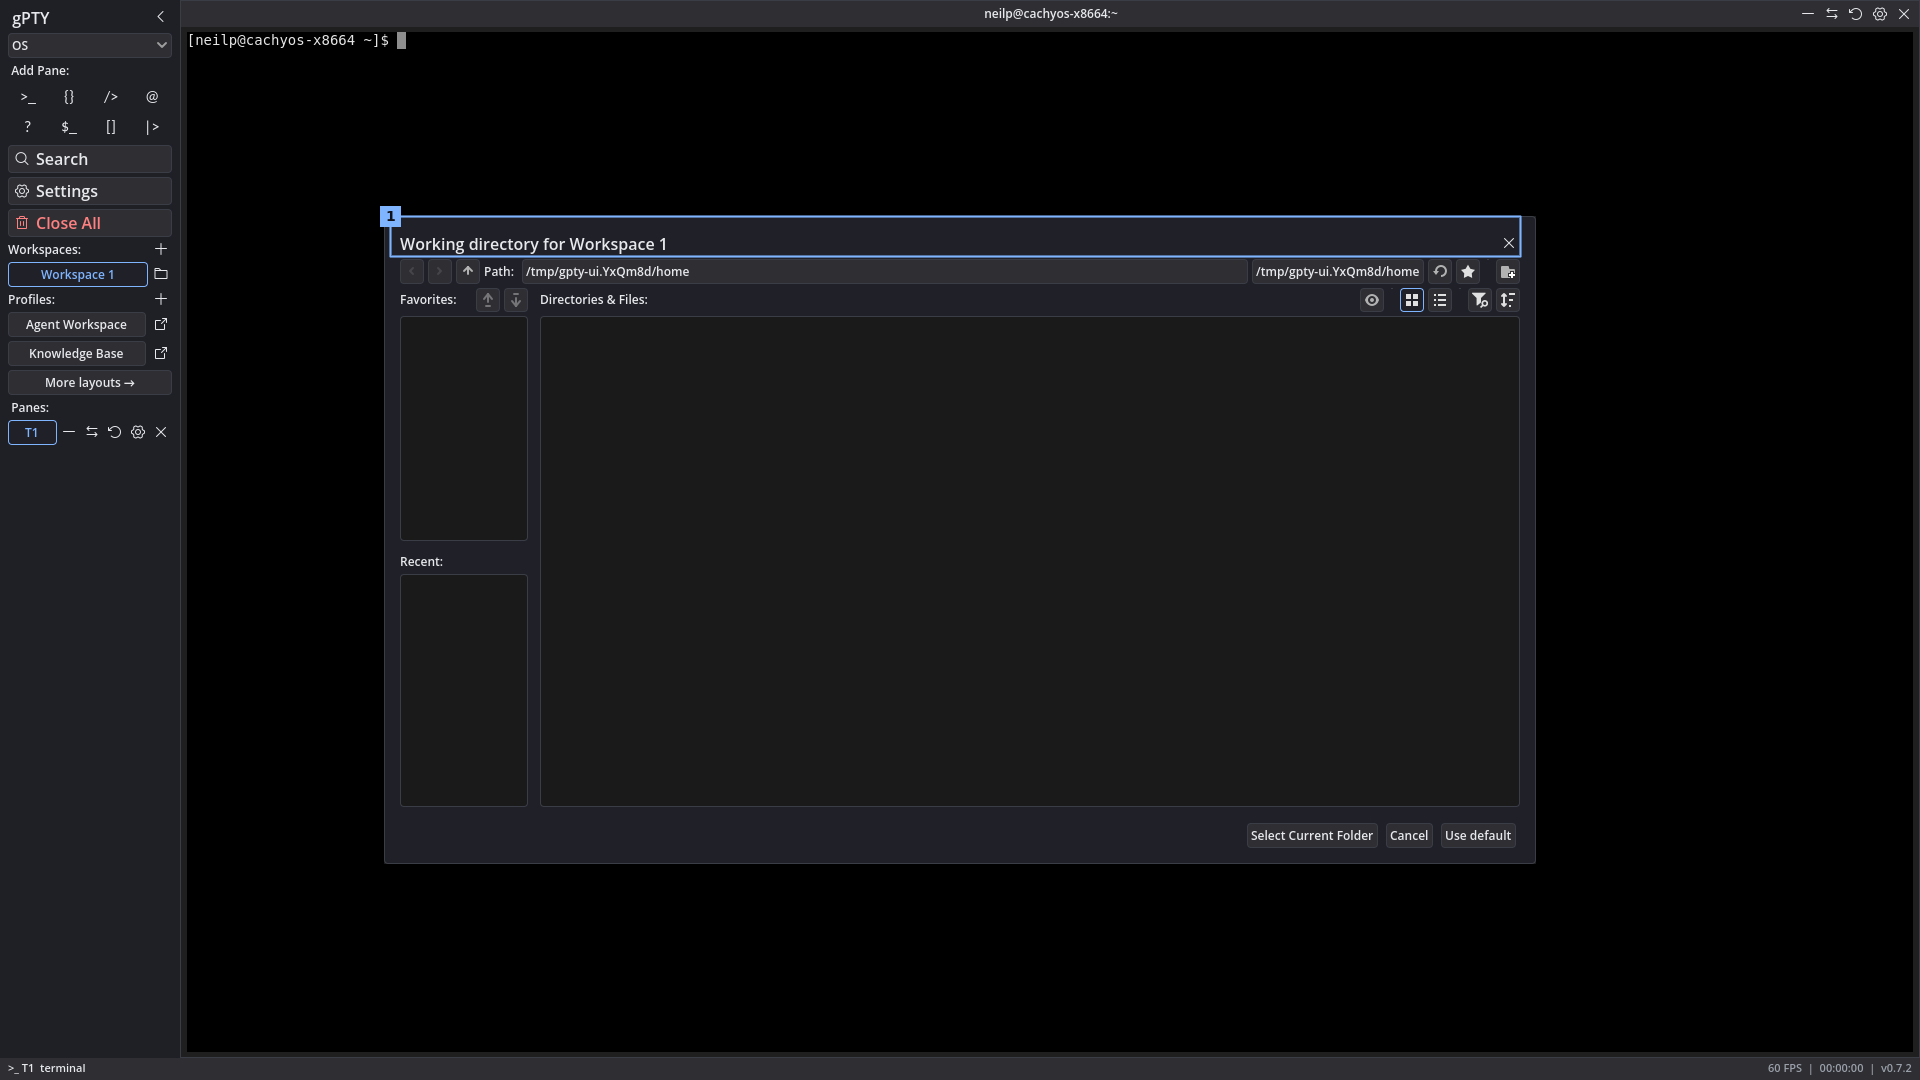
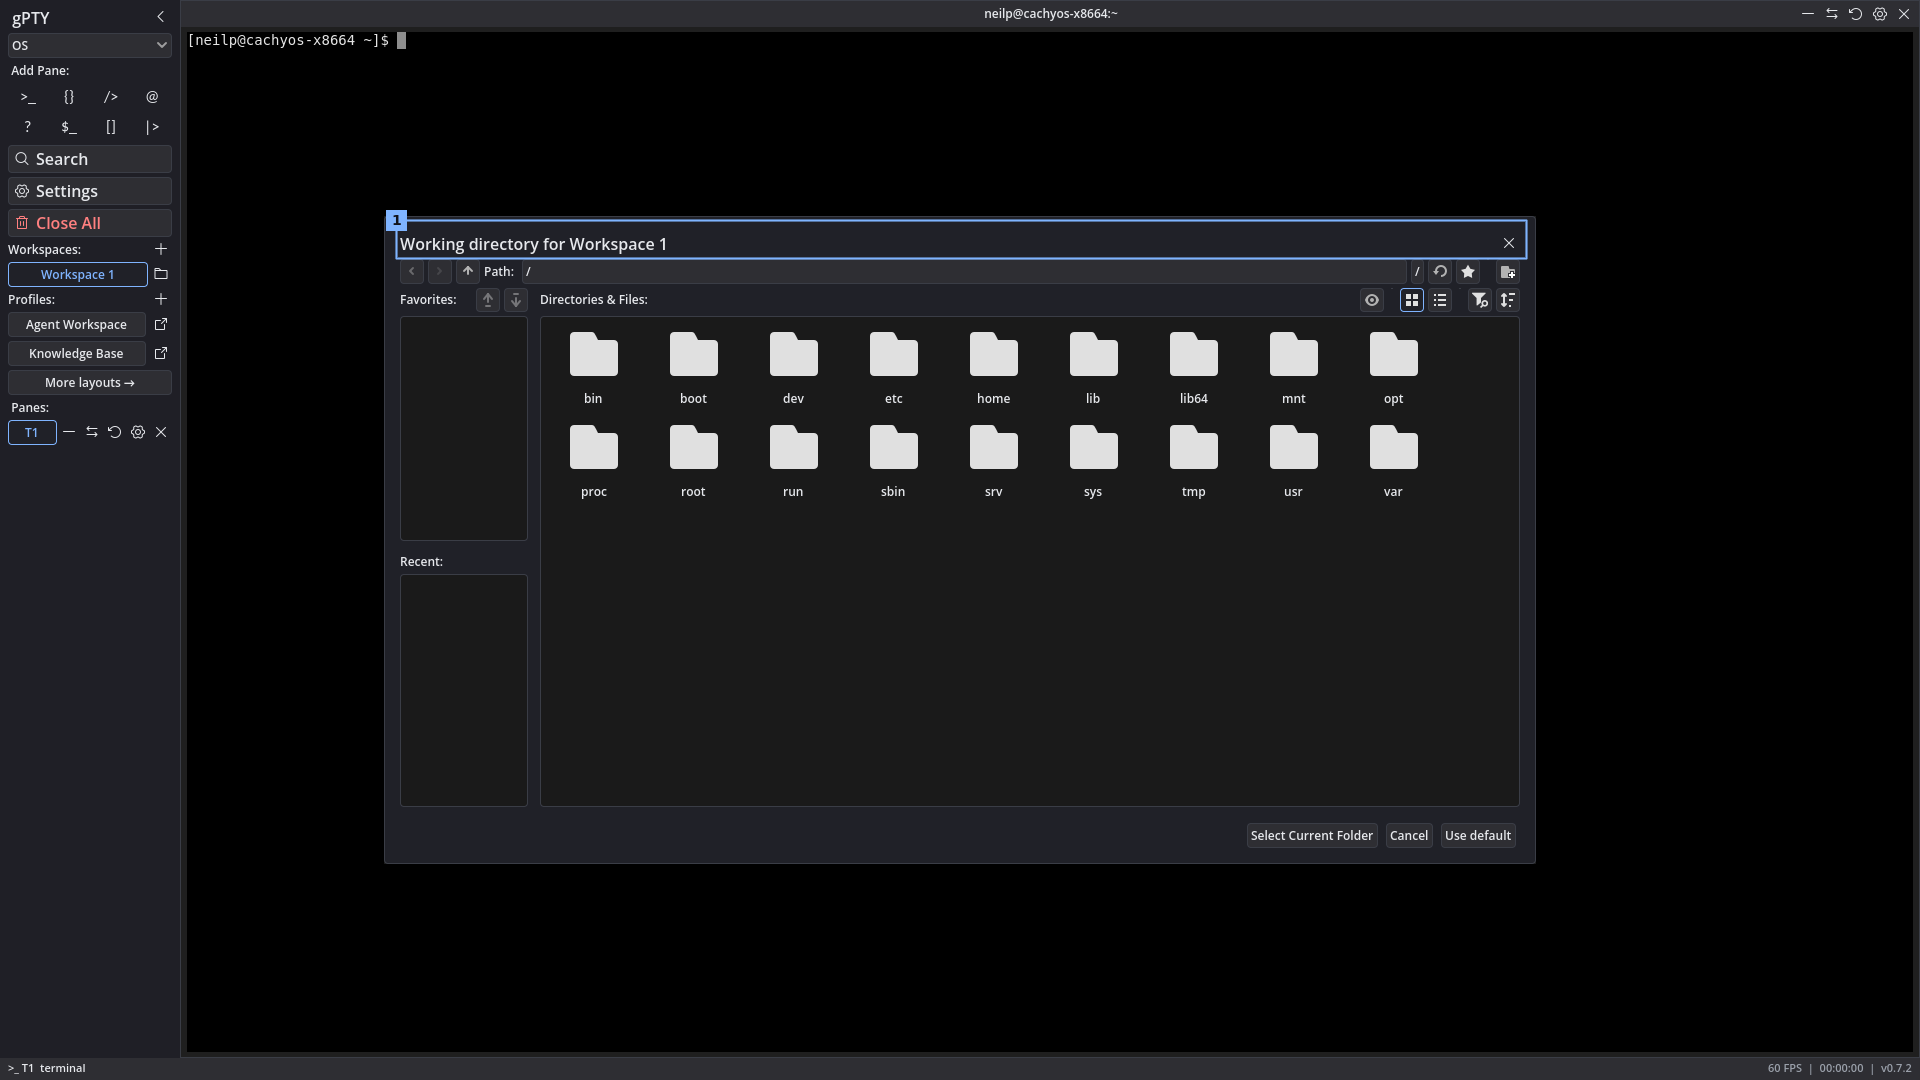
fix(ci): keep the file-dialog capture byte-identical
The picker opens in the sandbox's HOME, whose per-run path made two captures of the new `file-dialog` state differ in the path field, so `scripts/ui-capture-check` failed the state. The state now pins `/` after the dialog opens: a fixed path whose listing is the same on both runs of one machine. Checked with `scripts/ui-capture-check settings file-dialog` (both states identical twice, and only `settings` changes when perturbed).

Also records the gate's own wart as a roadmap row: `PERTURB` is fixed to `settings`, so naming any other state alone is refused.

Changed region(s): [[0.2812, 0.3056, 0.75, 0.4583], [0.1875, 0.1833, 0.8125, 0.275]]

diff --git a/docs/content/docs/roadmap/v0.8.md b/docs/content/docs/roadmap/v0.8.md
@@ -16,6 +16,7 @@ Five releases that make the interface the reason to use gPTY. v0.8.0 re-baseline
 | ✅ | GUI | **An open overlay neither takes keyboard focus nor blocks the terminal behind it** - measured 2026-11-03 on 0.7.2: with Settings open and a terminal focused, typing `x` reached the shell and Escape closed neither Settings, Pane Settings nor the command palette, because a focused pane consumes every key in `_gui_input` (`accept_event()` on its fall-through path) after writing the raw ESC to the child, so each overlay's `_unhandled_input` Escape handler never ran; the palette's field also focused nothing (`find_child("*")` returned the palette's `VBoxContainer`). The concept editor was the exception (it grabbed focus and Escape closed it). Fixed 2026-11-04: the four overlays (Settings, Pane Settings, the palette, the concept editor) extend `OverlayPanel` and take the keyboard on open - `open()` remembers the focus owner and focuses a control inside (`_initial_focus()`, else the first reachable descendant), so a typed character goes to the overlay; Escape is handled in `Workspace._input`, before GUI input, with `_keyboard_overlay()` naming the topmost visible overlay; `close()` emits `keyboard_released` only when the overlay still owned the keyboard (a click that already moved focus is never overridden), and the workspace then focuses the overlay underneath (the concept editor returns to Settings) or the active pane; a click behind an open overlay no longer activates a pane. The palette moved to `ui/command_palette.gd`, which fixes its focus target. Measured 2026-11-04 with `scripts/ui-capture --audit-focus`: settings, pane-settings and palette now report the focus owner inside the overlay and `escape ... closed=true` (before: `focus-owner=.../Body` and `closed=false` for pane settings and the palette). Tests: `godot/tests/integration/test_overlay_focus.gd` (a real shell per run: typing never reaches the PTY, Escape leaves the grid unchanged and the next typed command still runs, focus returns to the terminal, the editor returns to Settings, a palette spawn keeps the new pane, a click behind an overlay activates nothing) and `godot/tests/unit/test_overlay_panel.gd`; `scripts/ui-capture-check` is still pixel-identical on the four states. Rule: `docs/content/docs/agents/gdscript.md` ("Overlay keyboard ownership"). |
 | ✅ | GUI | **The keyboard cannot drive pane chrome or the Wiki pane** - measured 2026-11-03 on 0.7.2 with `--audit-focus`: every pane title bar's five buttons were `FOCUS_NONE` (20 mouse-only buttons in the four-pane state) and the Wiki pane's Back, New, Graph, Edit/Split/Preview, Rename, Delete, Save and every link row likewise (52 on the index note), and opening a note with Enter hid the list and the search while nothing handled Escape - the editor consumes Tab for indentation, so a note was a hard keyboard trap. Fixed 2026-11-04: the five title-bar buttons are `FOCUS_ALL` with an explicit `focus_next`/`focus_previous` ring (`TerminalManager._wire_chrome_keyboard`), the body's own traversal continues into its first button, `Ctrl+Shift+E` (`Workspace._focus_active_pane_chrome`) is the way in from a terminal (which consumes Tab for its child; it does nothing while an overlay owns the keyboard), Escape hands the keyboard back to the pane (a terminal takes it itself; a read-only pane's first reachable control takes it, `KeyboardFocus.first_reachable`) (`Workspace._escape_pane_chrome`), and a chrome action that leaves the pane on screen returns focus to it. The Wiki pane's controls and link rows are ordinary tab stops, opening a note focuses the buffer (or Back for a note past the 1 MiB cap), leaving focuses the list, and Escape is Back behind the existing Save/Discard/Cancel guard. Measured 2026-11-04: `--audit-focus sidebar` reports `focus-none-buttons=0` (was 20) and a tab-order that enters `TitleBarButtons/{Minimize,SwapPosition,ChangeType,PaneSettings,ClosePane}` and wraps; `--audit-focus wiki-vault` reports `focus-none-buttons=0` (was 52). Godot finding: `_gui_input` is delivered to the focused control only and does not bubble to ancestors on 4.7.2 (measured), so both Escape paths read the input stage and scope themselves with the focus owner. Tests: `test_title_bar_keyboard.gd` (ring, entry, Escape back, overlay guard, restore returns the keyboard), `test_wiki_pane.gd` (Escape from a clean note writes nothing and focuses the list, Escape on a dirty note asks and Cancel keeps it, no visible wiki action is mouse-only), `test_keyboard.gd` (Escape still reaches the child as ESC). Docs: the keyboard-shortcuts wiki page, the GDScript page (pane chrome is a keyboard toolbar) and the pitfalls page (the bubbling trap). |
 | ✅ | WIKI | **The note toolbar is unreachable while the buffer has focus** - found 2026-11-04 while closing **The keyboard cannot drive pane chrome or the Wiki pane**, and measured on that fix build: the note view's controls are now tab stops, but a keyboard user who is editing cannot reach them - a focused `CodeEdit` consumes Tab for indentation, Escape leaves the note (Back is the fix for the trap, not a focus move), and the toolbar sits before the editor in tree order, so the only path to Rename/Delete/Edit-Split-Preview while typing is to leave the note, reopen it, or click. Fixed 2026-11-04: the toolbar (Edit/Split/Preview, Rename, Delete, Save) is one explicit traversal ring built from `KeyboardFocus.reachable_children`/`KeyboardFocus.ring` - the pair pane chrome now uses too - so Tab wraps inside the bar; `Ctrl+Shift+K` enters it (`Workspace._focus_note_toolbar`) and Escape returns to the buffer (`WikiPane._return_from_note_toolbar`) before the buffer's own Escape leaves the note, one level out per press. The chord resolves its pane from the focus owner first: `last_body` alone was measured wrong (a wiki pane opened from its own list kept the startup terminal as the active pane, so a `last_body`-only rule never fired from the buffer the chord exists for). `PaneBody.keyboard_entry()` is the new contract behind the row's third half: entering the pane from its chrome (`TerminalManager._return_focus_to_body`) now lands in the note buffer instead of Back. Inert with no buffer on screen (no note open, `preview` mode), where the toolbar is already one Tab from Back. Test: `test_wiki_note_keyboard.gd` - the chord from the focused buffer lands on the first toolbar button with `last_body` pointing elsewhere, Escape returns to the buffer without leaving the note and only the second Escape leaves it, the ring covers modes/Rename/Delete/Save in both directions, the chord is inert in the list view and in preview mode, and chrome Escape aims at the buffer. `--audit-focus wiki-vault` on the built app: 0 mouse-only buttons of 178 controls (its tab-order walk still stops inside the title-bar ring - **The focus audit stops inside the first keyboard ring** below). |
+| ⬜ | BUILD | **`ui-capture-check` refuses a state subset that leaves out `settings`** - found 2026-11-06 while adding the `file-dialog` capture state: the usage line is `scripts/ui-capture-check [--keep <dir>] [state...]`, but `PERTURB` is fixed to `settings`, so naming any other state alone fails with `perturb state 'settings' is not in the state list` instead of checking the state the caller named - the natural invocation for one new state cannot run. Fix: default `PERTURB` to the first state in the list (or add a `--perturb` flag), so the locality half stays meaningful for any subset. |
 | ✅ | WIKI | **The vault link graph is mouse-only** - measured 2026-11-03 in `wiki-graph`: the graph is the only pane surface and it had zero focusable controls - `Arrows`, `Relayout` and `Fit` were `FOCUS_NONE`, and the canvas was a `FOCUS_NONE` `Control` whose drag, wheel zoom, click-to-open and right-click weight menu all lacked a key path, so the Tab order started in the sidebar and the map could not be operated at all without a pointer. Fixed 2026-11-04: the canvas and its three actions are one explicit ring with the canvas first (`KeyboardFocus.ring`), so all four are tab stops and the canvas draws its own accent focus frame (a custom-drawn `Control` has no stylebox to do it); arrows pan (`PAN_STEP` 48 px, Shift x4), `+`/`-` zoom about the crosshair, and Enter acts on what the crosshair covers - a note opens, a ghost resolves, an edge opens its declared-weight menu - through the same `VaultGraphModel.hit_test`/`hit_test_edge` the pointer uses (`VaultGraphView.cursor_hit`, one answer for the draw and the gesture, so the highlight cannot disagree with the action). The crosshair is the canvas centre, drawn only while the canvas holds the keyboard, and the node under it gets its own ring and label. Opening the graph hands the keyboard to the canvas (the Graph button, and `WikiPane.keyboard_entry` for the chrome route), and Escape still leaves for the list. Measured with `--audit-focus wiki-graph`: 3 mouse-only buttons and a mouse-only canvas (35 focusable) before, 0 and 39 after, focus-owner the canvas, tab-order canvas -> Arrows -> Relayout -> Fit. Tests: `test_vault_graph_view.gd` (the ring in both directions, arrow/Shift pan, zoom about the crosshair, Enter on a node, a ghost and an edge), `test_wiki_pane.gd` (the Graph button hands focus over; Escape returns to the list). |
 | ✅ | WIKI | **The vault graph's labels overlap at the bundled vault's density** - measured 2026-11-03 on the 52-note / 267-link bundled vault: labels were drawn for every node at the fitted zoom and two titles printed on top of each other at the top of the map (the `wiki-graph` capture), so note identity was unreadable where the map is most useful; the first fit used node positions only (`VaultGraphModel.bounds`), not label extents. Fixed 2026-11-04: labels are placed, not drawn per node - `VaultGraphView.label_placements` orders the candidates by what the user is aiming at (crosshair, pointer, open note), then degree, then id, and `VaultGraphModel.cull_labels` drops every box that would print over one already accepted (or that the view clips anyway), so no two titles stack. Always-on labels still stop at `LABEL_ZOOM`/`MAX_ALWAYS_LABELS`, but past either threshold the aimed-at, pointed-at and open nodes keep their names instead of the map going nameless. `fit_to_view` reserves the widest label (`MAX_LABEL_BLOCK`) out of the usable box, so a fitted map's right-hand labels land inside the padding instead of running off the canvas. Node circles are deliberately not label obstacles: measured on the bundled vault, blocking against them deleted nearly every label in the crowded centre. Tests: `test_vault_graph_model.gd` (disjoint boxes kept, an overlapping one dropped by priority, out-of-view skipped, no candidates), `test_vault_graph_view.gd` (an 8-node cluster keeps fewer labels than nodes and the open note's, no two placed boxes intersect, the fit puts every label inside the view, and a 130-node graph names only the open note). Re-captured `wiki-graph` on the built app: 52 notes, labels legible, nothing stacked. Screenshot (under Screenshots below): *Vault link graph* - the 0.7.2 capture of the stacking this row closed. |
 | ✅ | GUI | **The agent-state badge distinguishes failed from needs-attention by colour alone** - `failed` and `needs-attention` both rendered `Icons.WARNING_CIRCLE` and differed only by `BADGE_FAILED_COLOR` (red) and `BADGE_ATTENTION_COLOR` (amber), and the 12 px glyph `Label` carried no text, tooltip or accessible name, so a protan/deutan user could not reliably tell a failed turn from one that wants attention and a screen reader got nothing. Fixed 2026-11-04: `TerminalPane.BADGE_STATES` is the one table per state (`glyph`, `color`, `label`), `failed` is an X-circle and `needs-attention` the warning triangle (`Icons.X_CIRCLE` = U+E4F8, `Icons.WARNING` = U+E4E0 - both codepoints resolved by rendering the bundled Phosphor font, because it has no glyph names), the `label` is at once the hover tooltip and `accessibility_name` (the badge is `MOUSE_FILTER_PASS` because Godot only resolves a tooltip for the control under the pointer - measured on the headed build, a pointer motion over the badge makes `gui_get_hovered_control()` the badge and `get_tooltip()` return `Failed`; headless Godot tracks no pointer at all, even over a plain `Button`, so the suite asserts the hover target and the string rather than the popup; the title bar has no click or drag handler, so no gesture changed), and `accessibility_live` is polite so a change reaches a connected screen reader without focus; idle hides the badge and clears both strings. Tests: `test_every_state_has_its_own_glyph` (four states map to four distinct glyphs, each present in the bundled font - a wrong codepoint renders tofu that no colour difference rescues), `test_badge_carries_text_for_pointer_and_screen_reader` (a Tier 1 `needs-attention` state shows the triangle with tooltip and name; runs on Windows too, unlike the OSC path) and `test_failed_declaration_shows_the_x_circle`. The new `agent-badges` capture state stages all four at once (1280x420, four tiles) and repeats pixel-identically (`scripts/ui-capture-check --perturb agent-badges agent-badges`), which required pinning the badge animation: the spinner cycles at 8 fps and the attention pulse at 1.2 Hz, so the state pins `_badge_anim` to 0 and stops the pane's per-frame work after the poll paints it. The graph's other signals held: a ghost is a double ring plus an "N missing" count, and the open note is named in the status line. Screenshot (under Screenshots below): *Agent-state badges*. |
